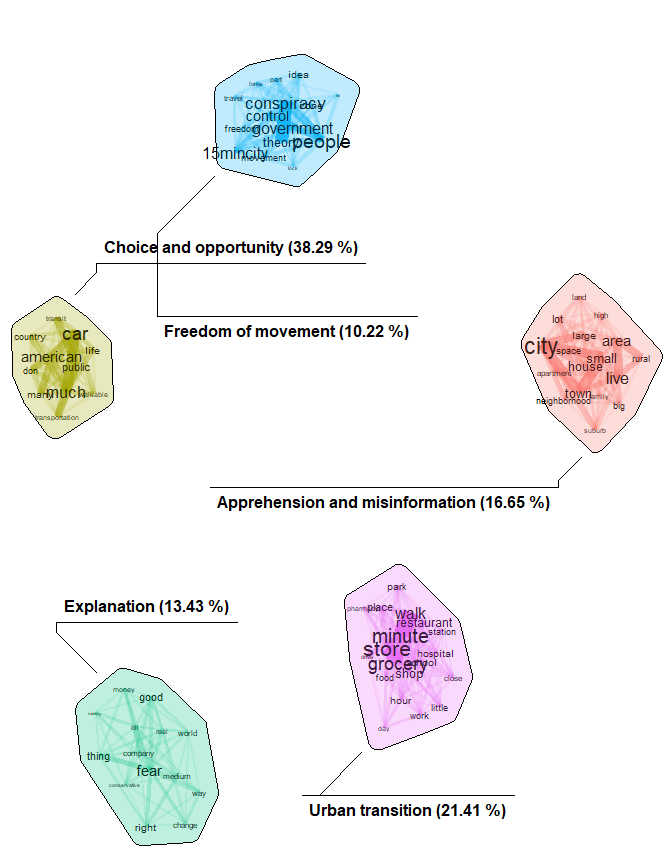
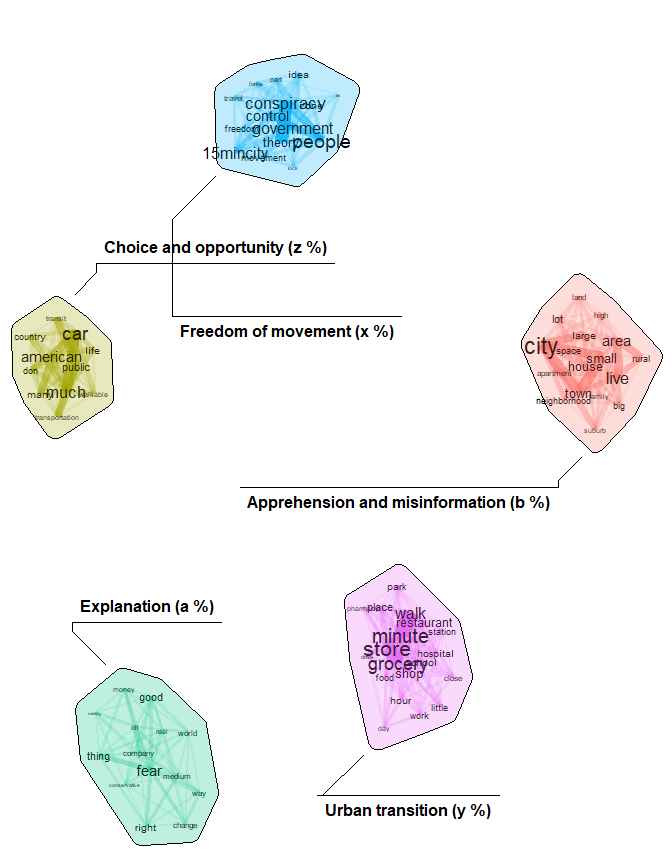
update btm

diff --git a/BTM.md b/BTM.md
@@ -92,11 +92,11 @@ df_tm$text <- str_replace_all(df_tm$text, "15 min cities", "15mincity")
 biterm_data_tm <- udpipe(df_tm, "english", trace = 500)
 ```
 
-    ## 2024-11-04 16:45:30.012616 Annotating text fragment 1/2347
-    ## 2024-11-04 16:45:44.97053 Annotating text fragment 501/2347
-    ## 2024-11-04 16:45:56.069505 Annotating text fragment 1001/2347
-    ## 2024-11-04 16:46:09.14224 Annotating text fragment 1501/2347
-    ## 2024-11-04 16:46:21.342056 Annotating text fragment 2001/2347
+    ## 2024-11-04 16:50:37.601967 Annotating text fragment 1/2347
+    ## 2024-11-04 16:50:53.172243 Annotating text fragment 501/2347
+    ## 2024-11-04 16:51:04.570848 Annotating text fragment 1001/2347
+    ## 2024-11-04 16:51:17.479808 Annotating text fragment 1501/2347
+    ## 2024-11-04 16:51:28.899101 Annotating text fragment 2001/2347
 
 ``` r
 biterms <- as.data.table(biterm_data_tm)
@@ -125,16 +125,16 @@ model <- BTM(traindata, k = 5,
              trace = 100)
 ```
 
-    ## 2024-11-04 16:47:01 Start Gibbs sampling iteration 1/1000
-    ## 2024-11-04 16:47:04 Start Gibbs sampling iteration 101/1000
-    ## 2024-11-04 16:47:07 Start Gibbs sampling iteration 201/1000
-    ## 2024-11-04 16:47:10 Start Gibbs sampling iteration 301/1000
-    ## 2024-11-04 16:47:13 Start Gibbs sampling iteration 401/1000
-    ## 2024-11-04 16:47:16 Start Gibbs sampling iteration 501/1000
-    ## 2024-11-04 16:47:20 Start Gibbs sampling iteration 601/1000
-    ## 2024-11-04 16:47:23 Start Gibbs sampling iteration 701/1000
-    ## 2024-11-04 16:47:26 Start Gibbs sampling iteration 801/1000
-    ## 2024-11-04 16:47:29 Start Gibbs sampling iteration 901/1000
+    ## 2024-11-04 16:52:08 Start Gibbs sampling iteration 1/1000
+    ## 2024-11-04 16:52:11 Start Gibbs sampling iteration 101/1000
+    ## 2024-11-04 16:52:15 Start Gibbs sampling iteration 201/1000
+    ## 2024-11-04 16:52:18 Start Gibbs sampling iteration 301/1000
+    ## 2024-11-04 16:52:21 Start Gibbs sampling iteration 401/1000
+    ## 2024-11-04 16:52:24 Start Gibbs sampling iteration 501/1000
+    ## 2024-11-04 16:52:27 Start Gibbs sampling iteration 601/1000
+    ## 2024-11-04 16:52:30 Start Gibbs sampling iteration 701/1000
+    ## 2024-11-04 16:52:33 Start Gibbs sampling iteration 801/1000
+    ## 2024-11-04 16:52:36 Start Gibbs sampling iteration 901/1000
 
 #### Inspect the model - topic frequency + conditional term probabilities
 
@@ -175,7 +175,7 @@ model$theta
 
 ``` r
 plot(model, top_n = 25, title ="",
-     labels = c("Freedom of movement (10.22 %)", "Urban transition (21.41 %)", "Choice and opportunity (38.29 %)", "Explanation (13.43 %)", "Apprehension and misinformation (16.65 %)"))
+     labels = c("Freedom of movement (x %)", "Urban transition (y %)", "Choice and opportunity (z %)", "Explanation (a %)", "Apprehension and misinformation (b %)"))
 ```
 
 ![](BTM_files/figure-gfm/unnamed-chunk-13-1.png)<!-- -->
